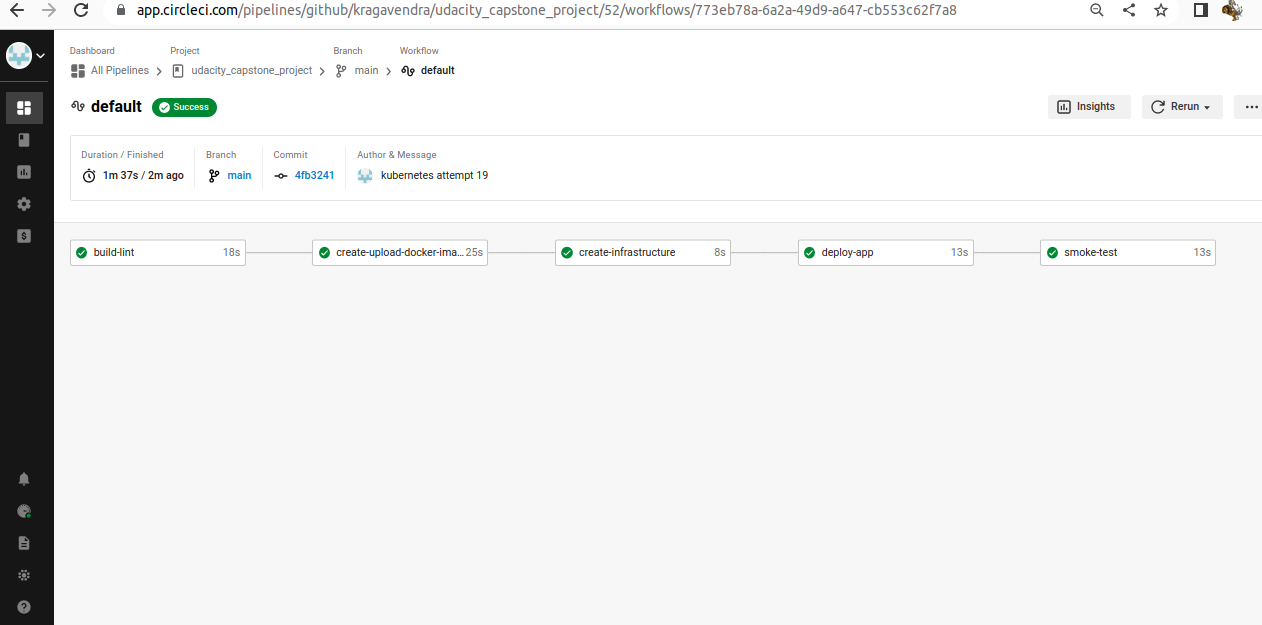
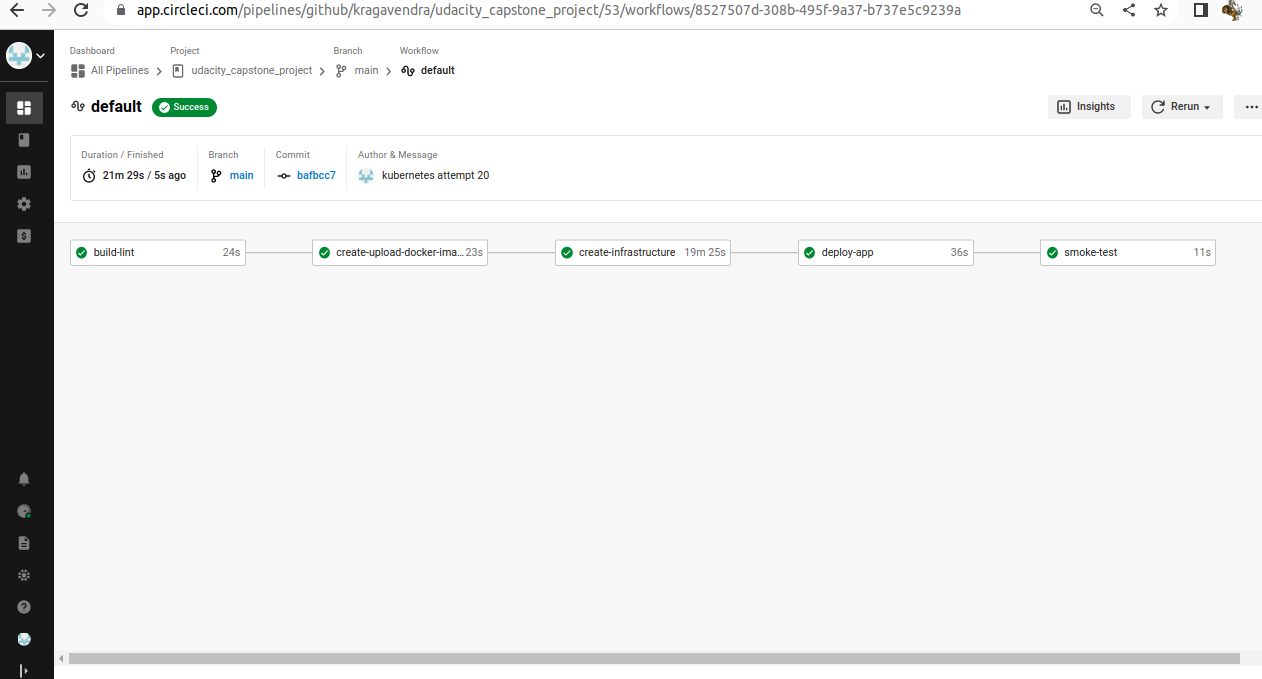
final commit

diff --git a/README.md b/README.md
@@ -1,3 +1,5 @@
+[![CircleCI](https://dl.circleci.com/status-badge/img/gh/kragavendra/udacity_capstone_project/tree/main.svg?style=svg)](https://dl.circleci.com/status-badge/redirect/gh/kragavendra/udacity_capstone_project/tree/main)
+
 Cloud DevOps Nanodegree Capstone Project
 
 In this project I will apply the skills and knowledge which were developed throughout the Cloud DevOps Nanodegree program. These include:
@@ -26,13 +28,6 @@ Step 4: Build your pipeline
         install dependecies & lint -> build & upload docker image -> create EKS cluster -> perform rolling update
 
 Step 5: Test your pipeline
-    Perform builds on your pipeline.
+    completed a working pipeline test and attached the screenshots
     
-    Verify that your pipeline works as you designed it. Take a screenshot of the Circle CI or Jenkins pipeline showing the deployment, and all stages passed successfully.
-    
-    Take a screenshot of your AWS EC2 page showing the newly created (for blue/green) or modified (for rolling) instances running as the EKS cluster nodes. Make sure you name your instances differently between blue and green deployments.
-
-    Take a screenshot of the kubectl command output showing that the deployment is successful, pods are running, and the service can be accessed via an external IP or port forwarding.
-
-    Take a screenshot showing that you can access the application after deployment.
-
+    access the wordle app from this link http://a9e8c28be83a546e7a13235d18d911e3-388845730.us-west-2.elb.amazonaws.com/
